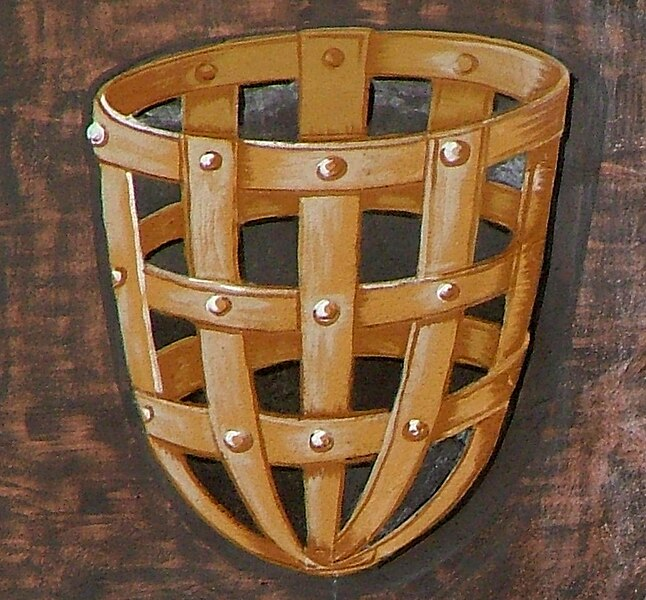
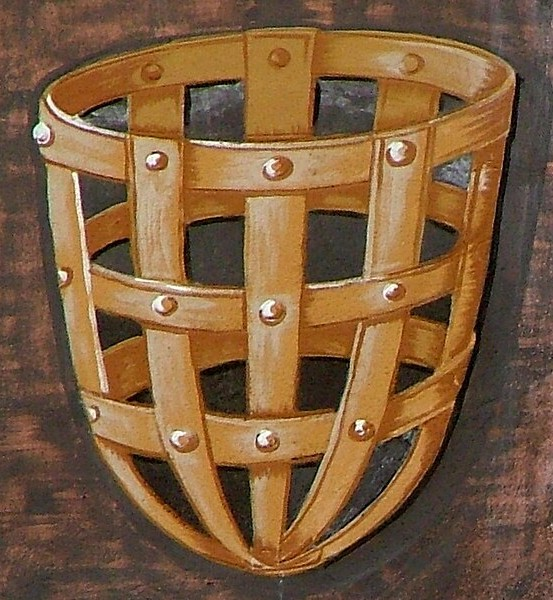
Zusätzliche Bilder

diff --git a/Wappenseite.html b/Wappenseite.html
@@ -118,9 +118,12 @@
 		<h4>Das Stammwappen der Ritter und Kemptener Patrizier Seutter, ab 1559 Reichsritter Seutter v. Loetzen</h4>
 		<section class="galerie">									
 			<div class="imgCont" data-filename="WappenSvLKempten.jpg"> </div> 
-			<div class="imgCont" data-filename="WappenCasparSuiter1491.jpg"> </div>
+			<div class="imgCont" data-filename="WappenSvLRahmen.jpg"> </div> 
 			<p>Der geflochtene, aufrecht stehende und oben offene goldene Korb im schwarzen Schild ist schon 1383 und 1476 nachweisbar. Deutlich dargestellt ist er u.a. bei den Patrizierwappen am Rathaus von Kempten.<br>
-			Das Wappen (1491) von Caspar Suiter als Abt des ehemaligen Prämonstratenser-Klosters Steingaden zeigt ebenfalls das Seutterwappen. In seiner Amtszeit 1470-1491 wurden die Kirche und der romanische Kreuzgang des 1147 von Markgraf Welf VI. als Welfen-Grablege gestifteten Klosters im Stil der Spätgotik umgestaltet, und er war der erste Abt von Steingaden, der die Pontifikalien (Mitra, Krummstab, etc.) führen durfte.</p>
+			Bis ins 20. Jahrhundert wurde diese einfachste Form des Wappens zur Kennzeichnung und Verzierung von Bauten und Gegenständen verwendet; hier ein Bilder- oder Spiegelrahmen.</p>
+			
+			<div class="imgCont" data-filename="WappenCasparSuiter1491.jpg"> </div>
+			<p>Das Wappen (1491) von Caspar Suiter als Abt des ehemaligen Prämonstratenser-Klosters Steingaden zeigt ebenfalls das Seutterwappen. In seiner Amtszeit 1470-1491 wurden die Kirche und der romanische Kreuzgang des 1147 von Markgraf Welf VI. als Welfen-Grablege gestifteten Klosters im Stil der Spätgotik umgestaltet, und er war der erste Abt von Steingaden, der die Pontifikalien (Mitra, Krummstab, etc.) führen durfte.</p>
 			
 			<div class="imgCont" data-filename="WappenSeutter1491.jpeg"> </div> 
 			<div class="imgCont" data-filename="WappenSeutter1532.jpeg"> </div> 
@@ -143,8 +146,9 @@
 
 			<div class="imgCont" data-filename="WappenSvLGottlieb.jpg"> </div> 
 			<div class="imgCont" data-filename="WappenSvLJohMich.png"> </div> 
-			<div class="imgCont" data-filename="GrabtafelSvL.jpg"> </div> 		
-			<p>Das Wappen des "Atzelsbergers" wurde von Johann Michael und von Gottlieb S.v.L. - beide waren Bürgermeister in Lindau - unbeanstandet geführt: Natürlich nicht in der freiherrlichen, sondern in der ritterlichen Ausgestaltung. Auch die Grabtafel am Alten Aeschacher Friedhof von Lindau zeigt dieses Wappen.</p>
+			<div class="imgCont" data-filename="GruftTafelSvL.jpg"> </div> 		
+			<p>Das Wappen des "Atzelsbergers" wurde von Johann Michael und von Gottlieb S.v.L. - beide waren Bürgermeister in Lindau - unbeanstandet geführt: Natürlich nicht in der freiherrlichen, sondern in der ritterlichen Ausgestaltung. <br>
+			Johann Michael hat dieses Wappen auch in die barocke Tafel der Gruft am Alten Aeschacher Friedhof von Lindau malen lassen.</p>
 		</section>
 		
 		<h4>Die Wappen der S.v.L. als Patrizier (1716) der Reichsstadt Ulm und als Freiherrn (ab 1810)</h4>
@@ -167,19 +171,22 @@
 			<p>In einer künstlerisch freien Darstellung aus Regensburg hat der Korb keine Querbänder. </p>
 		</section>	
 
-		<h4>Wappen der S.v.L. auf bestehenden Gebäuden</h4>
+		<h4>Wappen der S.v.L. auf diversen Gebäuden</h4>
 		<section class="galerie">				
 			<div class="imgCont" data-filename="WappenLindauBürgerhaus.jpg"> </div> 
 			<p>In Lindau findet man das Seutterwappen an mehreren Bürgerhäusern als Hauswappen. </p>
 			
 			<div class="imgCont" data-filename="WappenLindauRathaus.jpg"> </div> 
 			<div class="imgCont" data-filename="WappenSvLUnterhaus.jpg"> </div> 
-			<p>Auch neben der Rathausuhr ist es bei den Wappen der Patrizier der Reichsstadt Lindau zu finden. <br>
-			Als Stifterwappen ist es im Glasfenster der evangelischen Kirche in Unterhaus bei Seeboden am Millstättersee, Kärnten, zu sehen.</p>
+			<div class="imgCont" data-filename="WappenSvLEberle.jpg"> </div> 
+			<p>Das Seutterwappen ist auch neben der Rathausuhr bei den Wappen der Patrizier der Reichsstadt Lindau zu finden.<br>
+			Als Stifterwappen befindet es sich im Glasfenster der evangelischen Kirche in Unterhaus bei Seeboden am Millstättersee, Kärnten.<br>
+			Die Eberle besitzen den Hof Letten 1 in 87437 Kempten - St. Mang, den sie mit dem Wappen der Seutter von Loetzen geschmückt haben. Kapp darunter ist eine Steintafel in die Mauer eingelassen: "Hier stand einst das Schlößchen Letten: 1573 Lehen des Stiftes Kempten, dann Eigenthum der reichsstädtisch-kemptischen Patrizierfamilie Seuter. 1654 vom Stifte Kempten gekauft und vom Fürstabt Roman Giel von Gielsberg bis zur Vollendung der Residenz anno 1668 bewohnt.</p>
 			
+			<div class="imgCont" data-filename="GruftJohMich.jpg"> </div>
 			<div class="imgCont" data-filename="WappenSvLTorpfeiler.jpg"> </div>
-			<p>Der Seutterische Korb am Gartentorpfeiler der Villa Elena wurde um 1900 gestaltet und in ein Wappenbanner mit Quasten gesetzt. <!-- <br>
-			Das Grab am Alten Aeschacher Friedhof von Lindau zeigt das von Johann Michael S.v.L. unbeanstandet geführte ritterliche Wappen des "Atzelsbergers" --> </p>
+			<p>Die Gruft am Alten Aeschacher Friedhof von Lindau zeigt das von Johann Michael S.v.L. unbeanstandet geführte ritterliche Wappen des "Atzelsbergers"<br>
+			Der Seutterische Korb am Gartentorpfeiler der Villa Elena wurde um 1900 gestaltet und in ein Wappenbanner mit Quasten gesetzt.</p>
 		</section>
 	</main>
 	
